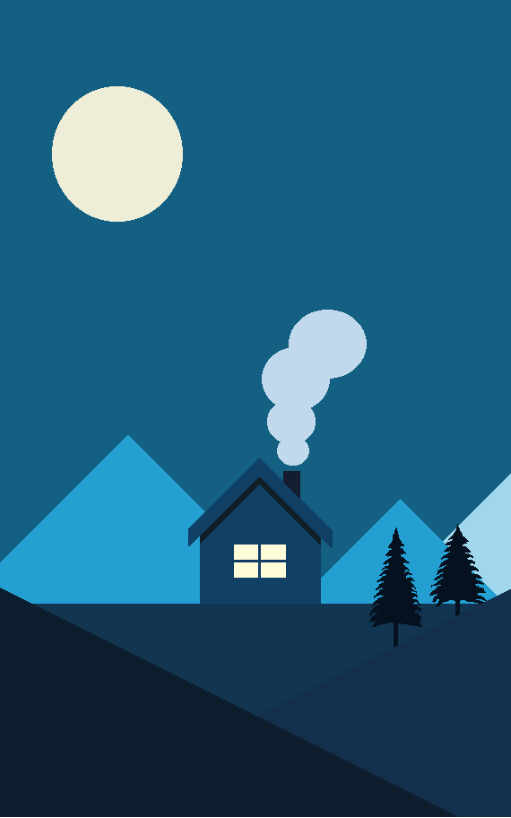
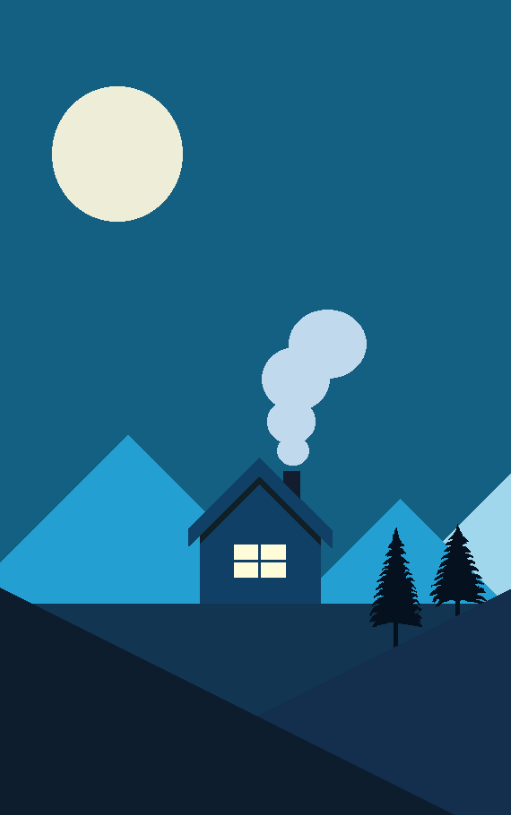
Clay art projects

diff --git a/art_projects.html b/art_projects.html
@@ -72,6 +72,18 @@
             <h2>Village at Night Pixel Art</h2>
         </div>
 
+        <!-- Project 9 -->
+        <div class="project">
+            <img src="assets/art projects/Clay Art Dance.png" alt="Clay Art" class="project-image" style="width: 512px; height: auto;" loading="lazy" />
+            <h2>Moulding Clay on Wood</h2>
+        </div>
+
+        <!-- Project 10 -->
+        <div class="project">
+            <img src="assets/art projects/Clay Art Flowers.png" alt="Clay Art" class="project-image" style="width: 512px; height: auto;" loading="lazy" />
+            <h2>Moulding Clay on Wood</h2>
+        </div>
+
     </div>
 </body>
 
